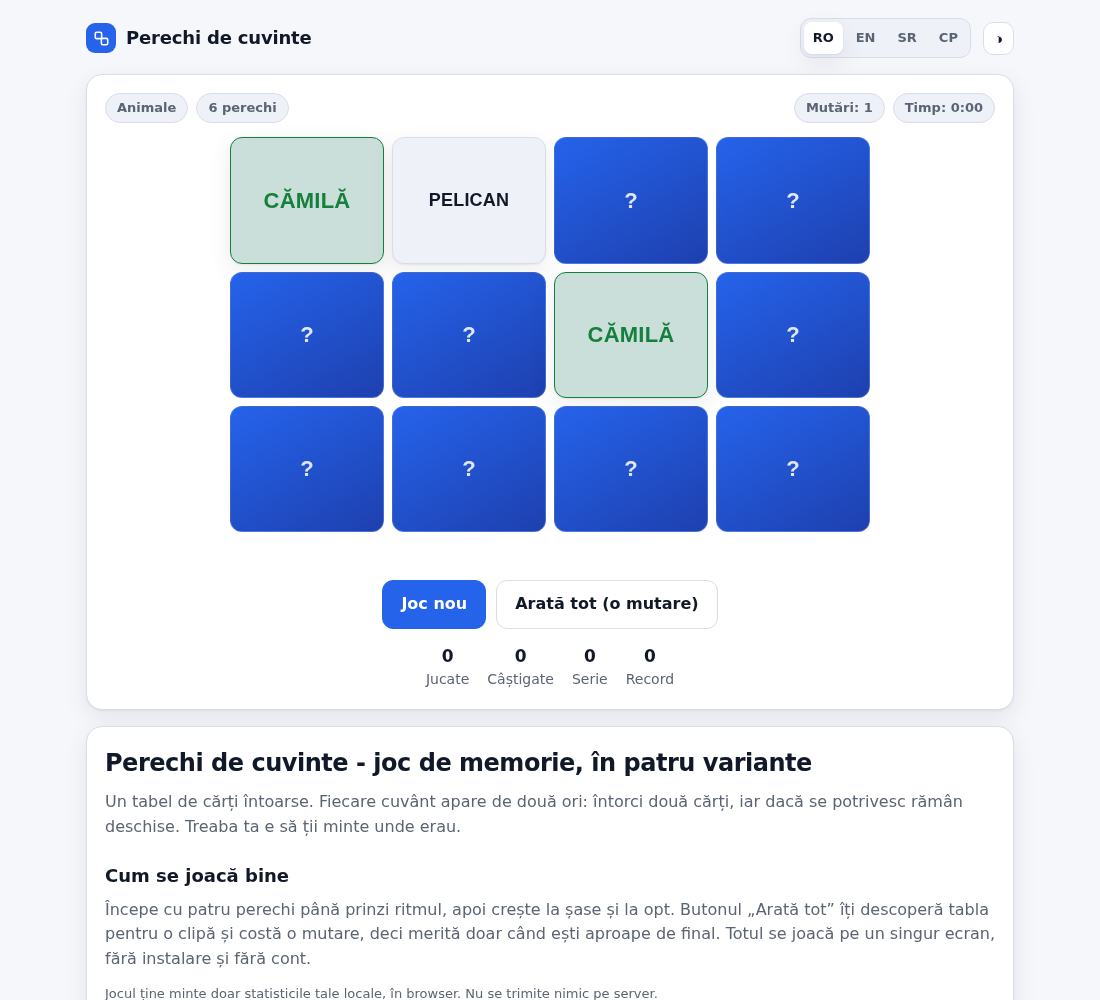
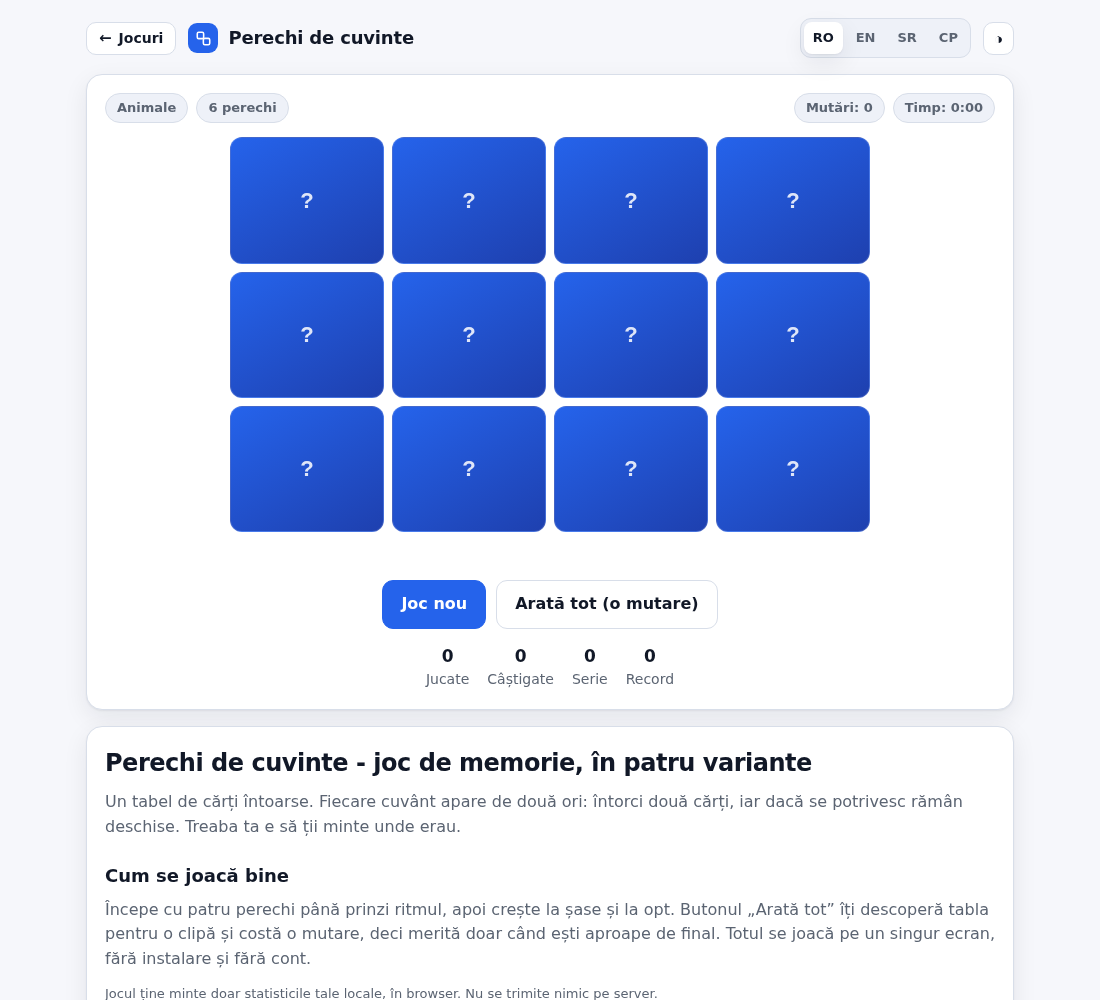
Adauga link de intoarcere la hub in toate cele 3 jocuri
Fiecare joc are acum, in header, un link 'Jocuri' (RO/EN/SR/CP) cu sageata:
- href ../ catre hub-ul de jocuri, primul element din header
- eticheta si aria-label se traduc o data cu limba (applyHome)
- stil .homebtn, potrivit cu butoanele existente, cu focus-visible
- regenereaza preview-light.png pentru toate 3 jocurile
- testele celor 3 suite verifica acum si linkul (108/0, 100/0, 70/0)

Changed region(s): [[0.1855, 0.124, 0.6491, 0.403], [0.0618, 0.0, 0.3709, 0.062]]

diff --git a/perechi-cuvinte/index.html b/perechi-cuvinte/index.html
@@ -59,6 +59,16 @@ header{display:flex; align-items:center; gap:12px; flex-wrap:wrap; margin-bottom
   border-radius:10px; padding:8px 10px; cursor:pointer; font-size:15px; line-height:1;
 }
 .iconbtn:hover{border-color:var(--accent)}
+/* link de intoarcere la hub-ul de jocuri */
+.homebtn{
+  display:inline-flex; align-items:center; gap:7px; text-decoration:none;
+  border:1px solid var(--line); background:var(--panel); color:var(--text);
+  border-radius:10px; padding:8px 12px; font-size:14px; font-weight:600; line-height:1;
+}
+.homebtn:hover{border-color:var(--accent); color:var(--accent)}
+.homebtn:focus-visible{outline:3px solid var(--accent); outline-offset:2px}
+.homebtn .arw{font-size:15px; line-height:1}
+
 .langs{display:flex; gap:4px; background:var(--panel2); border:1px solid var(--line); border-radius:11px; padding:3px}
 .langs button{
   border:0; background:transparent; color:var(--muted); font:inherit; font-size:13px; font-weight:600;
@@ -158,6 +168,7 @@ footer .sep{opacity:.5; margin:0 4px}
 <div class="wrap">
 
 <header>
+  <a class="homebtn" id="homeBtn" href="../"><span class="arw" aria-hidden="true">&larr;</span><span id="homeLbl">Jocuri</span></a>
   <div class="brand"><span class="dot" aria-hidden="true"><svg viewBox="0 0 24 24" width="17" height="17" fill="none" stroke="currentColor" stroke-width="2.2" stroke-linejoin="round"><rect x="3.2" y="3.2" width="9" height="9" rx="2"></rect><rect x="11.8" y="11.8" width="9" height="9" rx="2"></rect></svg></span><span id="brandName">Perechi de cuvinte</span></div>
   <div class="spacer"></div>
   <div class="langs" role="group" aria-label="Language">
@@ -397,8 +408,21 @@ function initTheme(){
 /* ---------- texte ---------- */
 function t(){ return L[state.lang]; }
 
+/* link de intoarcere la hub - textul se schimba o data cu limba */
+var HOME_LBL = {ro:"Jocuri", en:"Games", sr:"Igre", src:"Игре"};
+var HOME_TTL = {ro:"Inapoi la toate jocurile", en:"Back to all games",
+                sr:"Nazad na sve igre", src:"Назад на све игре"};
+function applyHome(){
+  var a = $("homeBtn"), l = $("homeLbl");
+  if(!a || !l) return;
+  l.textContent = HOME_LBL[state.lang] || "Games";
+  a.setAttribute("aria-label", HOME_TTL[state.lang] || "Back to all games");
+  a.setAttribute("title", HOME_TTL[state.lang] || "Back to all games");
+}
+
 function applyTexts(){
   var d = t();
+  applyHome();
   document.documentElement.lang = d.htmlLang;
   document.title = d.title;
   var m = document.querySelector('meta[name="description"]');

diff --git a/amesteca-literele/index.html b/amesteca-literele/index.html
@@ -55,6 +55,16 @@ header{display:flex; align-items:center; gap:12px; flex-wrap:wrap; margin-bottom
   border-radius:10px; padding:8px 10px; cursor:pointer; font-size:15px; line-height:1;
 }
 .iconbtn:hover{border-color:var(--accent)}
+/* link de intoarcere la hub-ul de jocuri */
+.homebtn{
+  display:inline-flex; align-items:center; gap:7px; text-decoration:none;
+  border:1px solid var(--line); background:var(--panel); color:var(--text);
+  border-radius:10px; padding:8px 12px; font-size:14px; font-weight:600; line-height:1;
+}
+.homebtn:hover{border-color:var(--accent); color:var(--accent)}
+.homebtn:focus-visible{outline:3px solid var(--accent); outline-offset:2px}
+.homebtn .arw{font-size:15px; line-height:1}
+
 .langs{display:flex; gap:4px; background:var(--panel2); border:1px solid var(--line); border-radius:11px; padding:3px}
 .langs button{
   border:0; background:transparent; color:var(--muted); font:inherit; font-size:13px; font-weight:600;
@@ -149,6 +159,7 @@ footer .sep{opacity:.5; margin:0 4px}
 <div class="wrap">
 
 <header>
+  <a class="homebtn" id="homeBtn" href="../"><span class="arw" aria-hidden="true">&larr;</span><span id="homeLbl">Jocuri</span></a>
   <div class="brand"><span class="dot" aria-hidden="true">
     <svg viewBox="0 0 24 24" width="17" height="17" fill="none" stroke="currentColor" stroke-width="2.2" stroke-linecap="round">
       <path d="M4 7h5M4 7l3-3M4 7l3 3"></path>
@@ -386,8 +397,21 @@ function initTheme(){
 /* ---------- texte ---------- */
 function t(){ return L[state.lang]; }
 
+/* link de intoarcere la hub - textul se schimba o data cu limba */
+var HOME_LBL = {ro:"Jocuri", en:"Games", sr:"Igre", src:"Игре"};
+var HOME_TTL = {ro:"Inapoi la toate jocurile", en:"Back to all games",
+                sr:"Nazad na sve igre", src:"Назад на све игре"};
+function applyHome(){
+  var a = $("homeBtn"), l = $("homeLbl");
+  if(!a || !l) return;
+  l.textContent = HOME_LBL[state.lang] || "Games";
+  a.setAttribute("aria-label", HOME_TTL[state.lang] || "Back to all games");
+  a.setAttribute("title", HOME_TTL[state.lang] || "Back to all games");
+}
+
 function applyTexts(){
   var d = t();
+  applyHome();
   document.documentElement.lang = d.htmlLang;
   document.title = d.title;
   var m = document.querySelector('meta[name="description"]');

diff --git a/ghiceste-cuvantul/index.html b/ghiceste-cuvantul/index.html
@@ -54,6 +54,16 @@ header{display:flex; align-items:center; gap:12px; flex-wrap:wrap; margin-bottom
   border-radius:10px; padding:8px 10px; cursor:pointer; font-size:15px; line-height:1;
 }
 .iconbtn:hover{border-color:var(--accent)}
+/* link de intoarcere la hub-ul de jocuri */
+.homebtn{
+  display:inline-flex; align-items:center; gap:7px; text-decoration:none;
+  border:1px solid var(--line); background:var(--panel); color:var(--text);
+  border-radius:10px; padding:8px 12px; font-size:14px; font-weight:600; line-height:1;
+}
+.homebtn:hover{border-color:var(--accent); color:var(--accent)}
+.homebtn:focus-visible{outline:3px solid var(--accent); outline-offset:2px}
+.homebtn .arw{font-size:15px; line-height:1}
+
 .langs{display:flex; gap:4px; background:var(--panel2); border:1px solid var(--line); border-radius:11px; padding:3px}
 .langs button{
   border:0; background:transparent; color:var(--muted); font:inherit; font-size:13px; font-weight:600;
@@ -143,6 +153,7 @@ footer .sep{opacity:.5; margin:0 4px}
 <div class="wrap">
 
 <header>
+  <a class="homebtn" id="homeBtn" href="../"><span class="arw" aria-hidden="true">&larr;</span><span id="homeLbl">Jocuri</span></a>
   <div class="brand"><span class="dot">A</span><span id="brandName">Ghiceste cuvantul</span></div>
   <div class="spacer"></div>
   <div class="langs" role="group" aria-label="Language">
@@ -392,8 +403,21 @@ function initTheme(){
 /* ---------- texte ---------- */
 function t(){ return L[state.lang]; }
 
+/* link de intoarcere la hub - textul se schimba o data cu limba */
+var HOME_LBL = {ro:"Jocuri", en:"Games", sr:"Igre", src:"Игре"};
+var HOME_TTL = {ro:"Inapoi la toate jocurile", en:"Back to all games",
+                sr:"Nazad na sve igre", src:"Назад на све игре"};
+function applyHome(){
+  var a = $("homeBtn"), l = $("homeLbl");
+  if(!a || !l) return;
+  l.textContent = HOME_LBL[state.lang] || "Games";
+  a.setAttribute("aria-label", HOME_TTL[state.lang] || "Back to all games");
+  a.setAttribute("title", HOME_TTL[state.lang] || "Back to all games");
+}
+
 function applyTexts(){
   var d = t();
+  applyHome();
   document.documentElement.lang = d.htmlLang;
   document.title = d.title;
   var m = document.querySelector('meta[name="description"]');

diff --git a/tests/test_perechi.py b/tests/test_perechi.py
@@ -30,6 +30,9 @@ LIMBI = [
     ("src", "sr-Cyrl", "парова"),
 ]
 
+# eticheta linkului de intoarcere la hub, pe limbi
+HOME = {"ro": "Jocuri", "en": "Games", "sr": "Igre", "src": "Игре"}
+
 ok = 0
 rau = 0
 
@@ -87,6 +90,14 @@ def main():
 
             check(pg.evaluate("document.documentElement.lang") == lang,
                   "<html lang> = " + lang)
+            # link de intoarcere la hub-ul de jocuri
+            check(pg.get_attribute("#homeBtn", "href") == "../", "linkul spre hub are href ../")
+            check(pg.is_visible("#homeBtn"), "linkul spre hub e vizibil")
+            check(pg.inner_text("#homeLbl") == HOME[cheie],
+                  "eticheta linkului in " + cheie + ": " + pg.inner_text("#homeLbl"))
+            check(len((pg.get_attribute("#homeBtn", "aria-label") or "").strip()) > 3,
+                  "linkul spre hub are aria-label tradus")
+
             chip = text(pg, "#sizeChip").lower()
             check(cuv_pereche in chip and "6" in chip,
                   "chip-ul de marime e tradus si arata 6: " + text(pg, "#sizeChip"))

diff --git a/tests/test_ui.py b/tests/test_ui.py
@@ -28,6 +28,9 @@ LIMBI = [
     ("src", "sr-Cyrl", 30),
 ]
 
+# eticheta linkului de intoarcere la hub, pe limbi
+HOME = {"ro": "Jocuri", "en": "Games", "sr": "Igre", "src": "Игре"}
+
 ok = 0
 rau = 0
 
@@ -71,6 +74,14 @@ def main():
 
             check(pg.evaluate("document.documentElement.lang") == lang_asteptat,
                   "<html lang> = " + lang_asteptat)
+            # link de intoarcere la hub-ul de jocuri
+            check(pg.get_attribute("#homeBtn", "href") == "../", "linkul spre hub are href ../")
+            check(pg.is_visible("#homeBtn"), "linkul spre hub e vizibil")
+            check(pg.inner_text("#homeLbl") == HOME[cheie],
+                  "eticheta linkului in " + cheie + ": " + pg.inner_text("#homeLbl"))
+            check(len((pg.get_attribute("#homeBtn", "aria-label") or "").strip()) > 3,
+                  "linkul spre hub are aria-label tradus")
+
 
             taste = pg.eval_on_selector_all(".key", "ks=>ks.map(k=>k.dataset.k)")
             check(len(taste) == nr_litere,

diff --git a/tests/test_amesteca.py b/tests/test_amesteca.py
@@ -32,6 +32,9 @@ LIMBI = [
     ("src", "sr-Cyrl", "слова"),
 ]
 
+# eticheta linkului de intoarcere la hub, pe limbi
+HOME = {"ro": "Jocuri", "en": "Games", "sr": "Igre", "src": "Игре"}
+
 ok = 0
 rau = 0
 
@@ -86,6 +89,14 @@ def main():
             pg.wait_for_timeout(150)
 
             check(pg.evaluate("document.documentElement.lang") == lang, "<html lang> = " + lang)
+            # link de intoarcere la hub-ul de jocuri
+            check(pg.get_attribute("#homeBtn", "href") == "../", "linkul spre hub are href ../")
+            check(pg.is_visible("#homeBtn"), "linkul spre hub e vizibil")
+            check(pg.inner_text("#homeLbl") == HOME[cheie],
+                  "eticheta linkului in " + cheie + ": " + pg.inner_text("#homeLbl"))
+            check(len((pg.get_attribute("#homeBtn", "aria-label") or "").strip()) > 3,
+                  "linkul spre hub are aria-label tradus")
+
 
             rack = litere_pe_rack(pg)
             slots = sloturi(pg)
